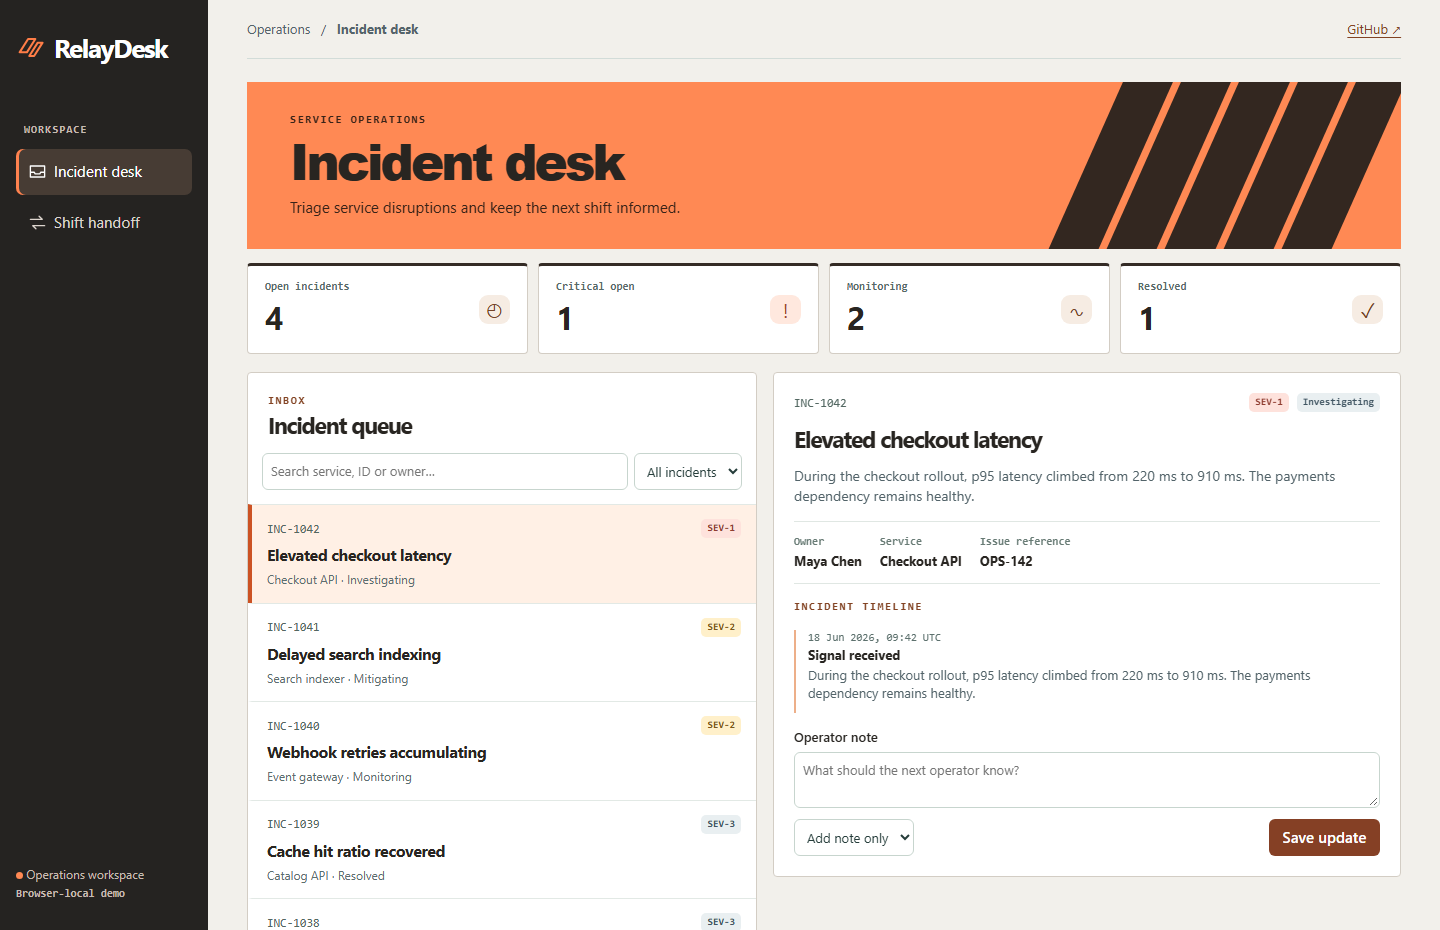
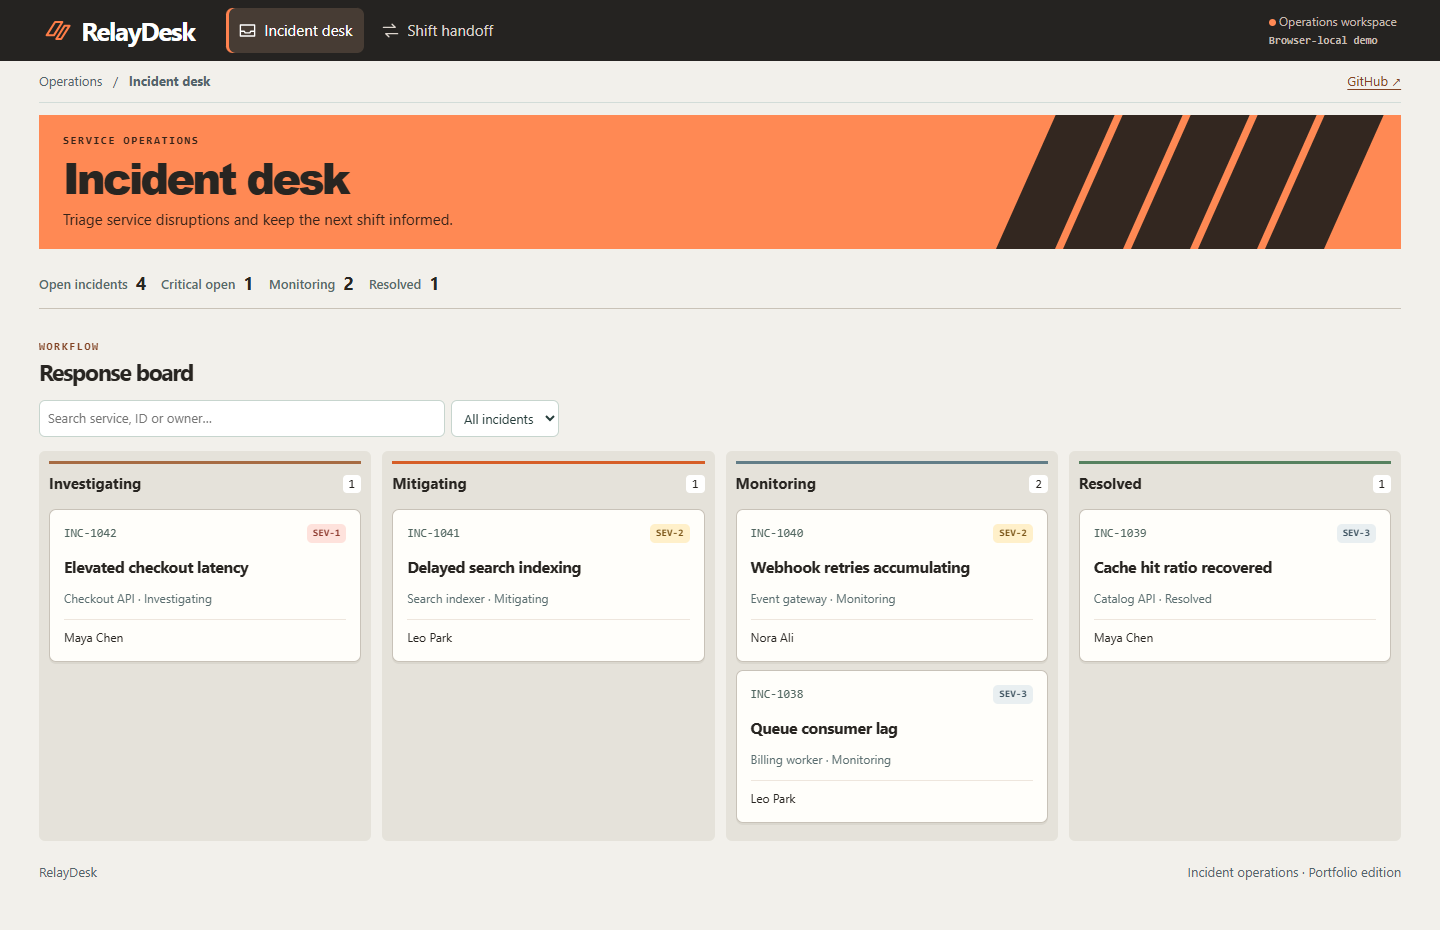
Organize incident response into stage lanes and a case drawer

diff --git a/index.html b/index.html
@@ -9,12 +9,14 @@ button:active:not(:disabled){transform:translateY(1px)}
 }
 
 body{background:#f2f0eb;color:#282521}aside{background:#252321}.brand .glyph{color:#ff7d47}.navlabel,.sidefoot,.sidefoot small{color:#c5bcb2}nav button{color:#ddd5ce}nav button[aria-pressed=true]{background:#473c34;box-shadow:inset 3px 0 #ff824f}.hero{background:#ff8954;border:0;border-radius:0;padding:30px clamp(20px,3vw,50px);min-height:160px}.hero h1{font-family:"Arial Black","Segoe UI",sans-serif;font-weight:900;letter-spacing:-.065em}.hero p,.hero .over{color:#372319}.hero .motif{inset:-25% -20px auto auto;height:150%;width:29%;transform:skewX(-24deg);gap:8px}.motif i,.motif i:nth-child(n){border:0;background:#332720;height:100%;width:15%;border-radius:0;opacity:1}.metric,.box{border-radius:4px;border-color:#d3cdc4}.metric{border-top:3px solid #342b25}.metric i{background:#f6ece3;color:#744325}.item[aria-pressed=true]{border-left-color:#cc5223;background:#fff0e5}.boxhead .over,.detail .over,a{color:#824323}.action{background:#854025}.timeline li{border-color:#edaf89}.dot{background:#ff8954}@media(max-width:800px){.hero{min-height:130px}.hero .motif{display:none}.brand{gap:4px}nav .glyph{width:15px;height:15px;margin-right:3px}}
+</style><style>
+@media(min-width:801px){aside{position:static;width:100%;height:61px;flex-direction:row;align-items:center;gap:32px;padding:0 3vw}aside .navlabel{display:none}aside nav{display:flex}.sidefoot{margin:0 0 0 auto}main{margin:0 auto;max-width:1800px}header{height:42px}}.hero{min-height:0;padding:18px 24px;margin:12px 0}.hero h1{font-size:clamp(30px,3vw,46px)}.panels{display:block}.panels>.box{border:0;background:transparent}.boxhead{padding:12px 0}.filters{padding:0 0 14px;max-width:520px}.metrics{display:flex;flex-wrap:wrap;gap:16px;border-bottom:1px solid #c9c2b7;padding:8px 0 12px}.metric{display:flex;gap:8px;padding:0;background:transparent;border:0}.metric i{display:none}.metric b{font-size:18px}.metric small{font:600 13px system-ui}#list{display:grid;grid-template-columns:repeat(4,minmax(0,1fr));gap:11px}.lane{background:#e5e2da;padding:10px;border-radius:6px;min-height:320px}.lanehead{display:flex;align-items:center;justify-content:space-between;border-top:3px solid #a66b43;padding:9px 0 14px;font-weight:700}.lane:nth-child(2) .lanehead{border-color:#d65e27}.lane:nth-child(3) .lanehead{border-color:#627d87}.lane:nth-child(4) .lanehead{border-color:#56815f}.lanehead span{font:12px monospace;background:white;padding:2px 6px;border-radius:4px}.lane .item,.lane .item[aria-pressed=true]{background:#fffefa;border:1px solid #c8c2b8;border-radius:7px;margin-bottom:8px;padding:14px;box-shadow:0 2px 0 #332a2010}.lane .item:hover{border-color:#9a542e}.lane .item h3{margin:12px 0}.laneowner{margin-top:12px;padding-top:9px;border-top:1px solid #eee6dd;font-size:12px}.lane .empty{font-size:12px;padding:5px}#casefile{margin:0 0 0 auto;width:min(535px,100%);height:100%;max-height:100%;max-width:100%;border:0;padding:0;color:#252522}#casefile::backdrop{background:#29231d77}.casebar{display:flex;justify-content:space-between;align-items:center;background:#312b26;color:white;padding:14px 20px}.casebar button{background:transparent;color:white;border:1px solid #86796a;border-radius:4px;padding:5px 10px}@media(max-width:900px){#list{grid-template-columns:repeat(2,minmax(0,1fr))}.lane{min-height:140px}}@media(max-width:540px){#list{grid-template-columns:1fr}.lane{min-height:0}.metrics{gap:6px 12px}}
 </style></head>
 <body><aside><div class="brand"><svg class="glyph" aria-hidden="true" viewBox="0 0 24 24" fill="none" stroke="currentColor" stroke-width="1.7" stroke-linecap="round" stroke-linejoin="round"><path d="M3 16 10 5h6l-7 11z M11 19l7-11h4l-7 11z"/></svg> RelayDesk</div><div class="navlabel">WORKSPACE</div><nav><button id="navQueue" aria-pressed="true"><svg class="glyph" aria-hidden="true" viewBox="0 0 24 24" fill="none" stroke="currentColor" stroke-width="1.7" stroke-linecap="round" stroke-linejoin="round"><path d="M3 5h18v14H3z M3 13h5l1 2h6l1-2h5"/></svg>Incident desk</button><button id="navHandoff" aria-pressed="false"><svg class="glyph" aria-hidden="true" viewBox="0 0 24 24" fill="none" stroke="currentColor" stroke-width="1.7" stroke-linecap="round" stroke-linejoin="round"><path d="M3 8h15l-4-4 M21 16H6l4 4"/></svg>Shift handoff</button></nav><div class="sidefoot"><span class="dot"></span> Operations workspace<br><small id="mode">Loading workspace</small></div></aside>
 <main><header><span>Operations &nbsp; / &nbsp; <b id="crumb">Incident desk</b></span><a href="https://github.com/mohamadmirzaei79/RelayDesk">GitHub ↗</a></header>
 <section class="hero"><div><div class="over">SERVICE OPERATIONS</div><h1 id="title">Incident desk</h1><p id="subtitle">Triage service disruptions and keep the next shift informed.</p></div><div class="motif" aria-hidden="true"><i></i><i></i><i></i><i></i><i></i></div></section>
 <div id="message" role="status"></div><div id="metrics" class="metrics"></div>
-<section id="queue"><div class="panels"><div class="box"><div class="boxhead"><div class="over">INBOX</div><h2>Incident queue</h2></div><div class="filters"><input id="search" aria-label="Search incidents" placeholder="Search service, ID or owner…"><select id="filter" aria-label="Filter incidents"><option>All incidents</option><option>Open only</option><option>SEV-1</option><option>Resolved</option></select></div><div id="list"></div></div>
-<div class="box detail" id="detail"></div></div></section>
+<section id="queue"><div class="panels"><div class="box"><div class="boxhead"><div class="over">WORKFLOW</div><h2>Response board</h2></div><div class="filters"><input id="search" aria-label="Search incidents" placeholder="Search service, ID or owner…"><select id="filter" aria-label="Filter incidents"><option>All incidents</option><option>Open only</option><option>SEV-1</option><option>Resolved</option></select></div><div id="list"></div></div>
+<dialog id="casefile"><div class="casebar"><strong>Incident file</strong><form method="dialog"><button aria-label="Close incident file">Close ×</button></form></div><div class="detail" id="detail"></div></dialog></div></section>
 <section class="box" id="handoff" hidden><div class="boxhead"><div class="over">SHIFT REPORT</div><h2>Open incidents by owner</h2><p>Includes the latest timeline entry for every open incident.</p></div><div id="report"></div></section>
-<footer>RelayDesk <span>Incident operations · Portfolio edition</span></footer></main><script src="./desk.js" defer></script></body></html>
+<footer>RelayDesk <span>Incident operations · Portfolio edition</span></footer></main><script src="./desk.js?v=board1" defer></script></body></html>

diff --git a/desk.js b/desk.js
@@ -27,7 +27,11 @@ function render(){
   const query=byId('search').value.toLowerCase(), filter=byId('filter').value;
   const visible=data.filter(r=>[r.title,r.service,r.owner,r.id].some(v=>v.toLowerCase().includes(query))&&(filter==='All incidents'||filter==='Open only'&&r.state!=='Resolved'||r.severity===filter||r.state===filter));
   if(!visible.some(r=>r.id===selected))selected=visible[0]?.id;
-  byId('list').innerHTML=visible.map(r=>'<button class="item" data-id="'+esc(r.id)+'" aria-pressed="'+(r.id===selected)+'"><div class="line between"><span class="id">'+esc(r.id)+'</span>'+badge(r)+'</div><h3>'+esc(r.title)+'</h3><div class="sub">'+esc(r.service)+' · '+esc(r.state)+'</div></button>').join('')||'<p class="empty">No incidents match these filters.</p>';
+  const card=r=>'<button class="item" data-id="'+esc(r.id)+'" aria-pressed="'+(r.id===selected)+'"><div class="line between"><span class="id">'+esc(r.id)+'</span>'+badge(r)+'</div><h3>'+esc(r.title)+'</h3><div class="sub">'+esc(r.service)+' · '+esc(r.state)+'</div><div class="laneowner">'+esc(r.owner)+'</div></button>';
+  byId('list').innerHTML=states.map(state=>{
+    const records=visible.filter(r=>r.state===state);
+    return '<section class="lane"><div class="lanehead">'+state+'<span>'+records.length+'</span></div>'+ (records.map(card).join('')||'<p class="empty">No matching incidents</p>')+'</section>';
+  }).join('');
   const record=visible.find(r=>r.id===selected);
   byId('detail').innerHTML=record?detail(record):'<p>Select a matching incident to view its timeline.</p>';
   byId('report').innerHTML=[...opened].sort((a,b)=>a.owner.localeCompare(b.owner)).map(r=>'<div class="report"><div class="line">'+badge(r)+'<span class="id">'+esc(r.id)+' · '+esc(r.owner)+'</span></div><h3>'+esc(r.title)+'</h3><p>'+esc(r.state)+' · '+esc(r.events.at(-1).detail||r.events.at(-1).kind)+'</p></div>').join('')||'<p class="empty">No open incidents.</p>';
@@ -56,7 +60,7 @@ document.addEventListener('submit',async e=>{
   }catch(error){byId('message').textContent=error.message;if(live)await load().catch(()=>{});}
   render();
 });
-byId('list').onclick=e=>{const item=e.target.closest('[data-id]');if(item){selected=item.dataset.id;render();if(matchMedia('(max-width:800px)').matches) byId('detail').scrollIntoView({behavior:'smooth'});}};
+byId('list').onclick=e=>{const item=e.target.closest('[data-id]');if(item){selected=item.dataset.id;render();byId('casefile').showModal();}};
 for(const tab of ['Queue','Handoff'])byId('nav'+tab).onclick=()=>{
   screen=tab;const queue=tab==='Queue';byId('queue').hidden=!queue;byId('handoff').hidden=queue;
   byId('title').textContent=byId('crumb').textContent=queue?'Incident desk':'Shift handoff';
